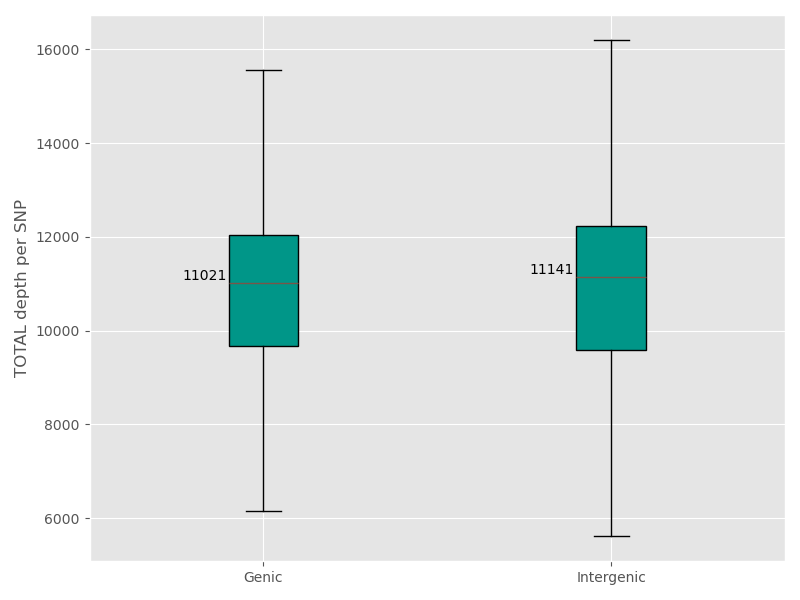
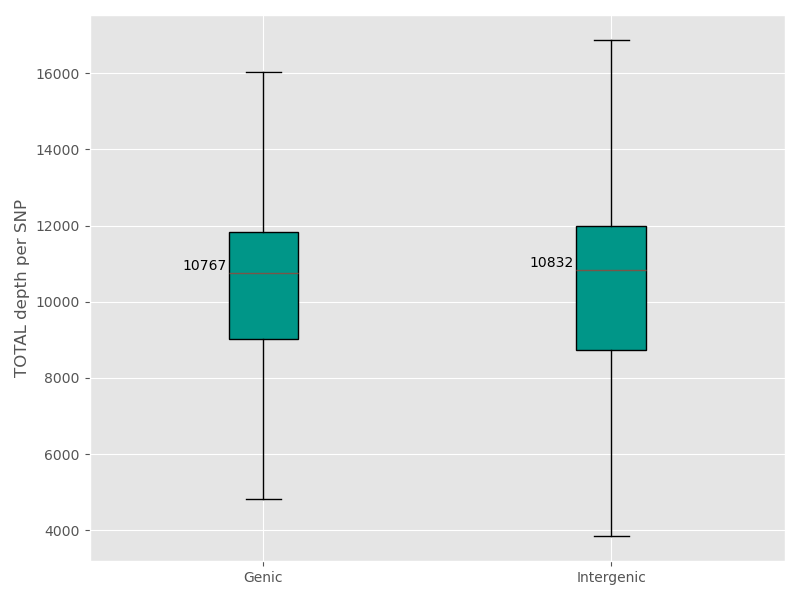
upload new depths/move old ones

diff --git a/docs/old/06_SNPs_stats/missing_gt.html b/docs/old/06_SNPs_stats/missing_gt.html
@@ -30,25 +30,16 @@
             z-index: 10;
             position: relative;  
         }      
-        .zoom_left:hover{
+        .zoom_left:hover {
             transform-origin: center left;
         }
-
     </style>
 </head>
 <body>   
 
-    <h3>Null variance estimates per sample</h3>
-    <img src="nv_per_sample.png" class="zoomable zoom_left">
-
-    <h3>Replicate differences across AFs</h3>
-    <img src="avg_zdiff_per_bin.png" class="zoomable zoom_left">
-
-     <h3>Mean z_diff_sq vs depth_var</h3>
-    <img src="dz2_vs_depth_var.png" class="zoomable zoom_left">
-
-    <h3>SNPs counts per AF bin</h3>
-    <img src="snp_counts_per_bin.png" class="zoomable zoom_left">
-
+    <h3>Proportion of SNPs missing GT in all samples</h3>
+    <img src="missing_GT_barplot.png" class="zoomable zoom_left">
+    <h3>Proportion of SNPs missing GT (excluding SFIN_La_2016 & MAF recalculated)</h3>
+    <img src="missing_GT_barplot.2.png" class="zoomable zoom_left">
 </body>
 </html>

diff --git a/docs/index.html b/docs/index.html
@@ -57,15 +57,19 @@
     </ul>
     <h3>Varcalling</h3>
     <ul>
-      <li><a href="./05_SNPs_depths/depth_boxplots.html"> SNPs depth boxplots (plots)</a></li>
+      <li><a href=".old/05_SNPs_depths/depth_boxplots.html"> SNPs depth boxplots (plots)</a></li>
     </ul>
     <h3>Null variance</h3>
     <ul>
-      <li><a href="./06_SNPs_stats/null_variance.html"> Null variance per sample and AF bin</a></li>
+      <li><a href=".old/06_SNPs_stats/null_variance.html"> Null variance per sample and AF bin</a></li>
     </ul>
     <h3>Chi square test p-values</h3>
     <ul>
-      <li><a href="./06_SNPs_stats/chi_square.html"> Null variance per sample and AF bin</a></li>
+      <li><a href=".old/06_SNPs_stats/chi_square.html"> Null variance per sample and AF bin</a></li>
+    </ul>
+        <h3>Missing genotype</h3>
+    <ul>
+      <li><a href=".old/06_SNPs_stats/missing_gt.html"> Barplot of proportion of SNPs missing GT</a></li>
     </ul>
   </div> 
 </body>

diff --git a/docs/old/06_SNPs_stats/chi_square.html b/docs/old/06_SNPs_stats/chi_square.html
@@ -24,13 +24,22 @@
             padding: 10px;
             box-shadow: 2px 2px 8px rgba(0,0,0,0.1);
         }
+        .zoomable:hover {
+            transform: scale(1.8);
+            transition: transform 0.3s ease;
+            z-index: 10;
+            position: relative;  
+        }      
+        .zoom_left:hover {
+            transform-origin: center left;
+        }
     </style>
 </head>
 <body>   
 
     <h3>P-values form chi square test (less than 0.01 will be discarded)</h3>
-    <img src="pval_histogram.png">
+    <img src="pval_histogram.png" class="zoomable zoom_left">
     <h3>-log10(p-values) vs total SNP depth </h3>
-    <img src="pval_vs_depth.png">
+    <img src="pval_vs_depth.png" class="zoomable zoom_left">
 </body>
 </html>
